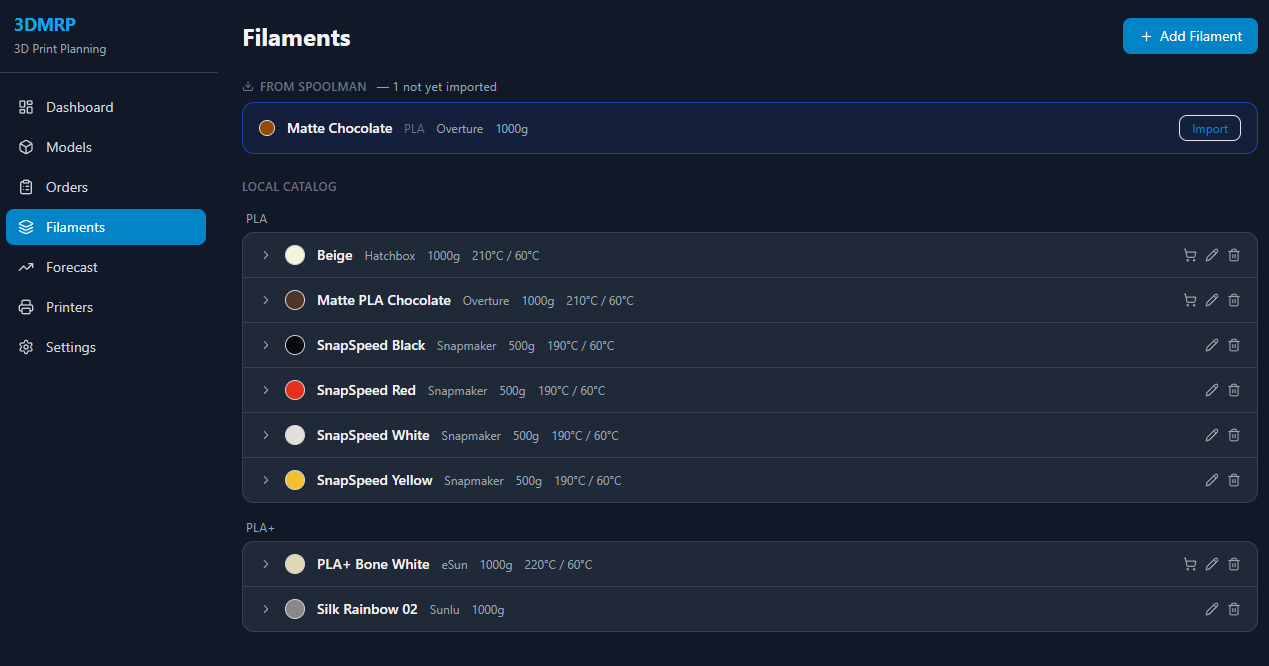
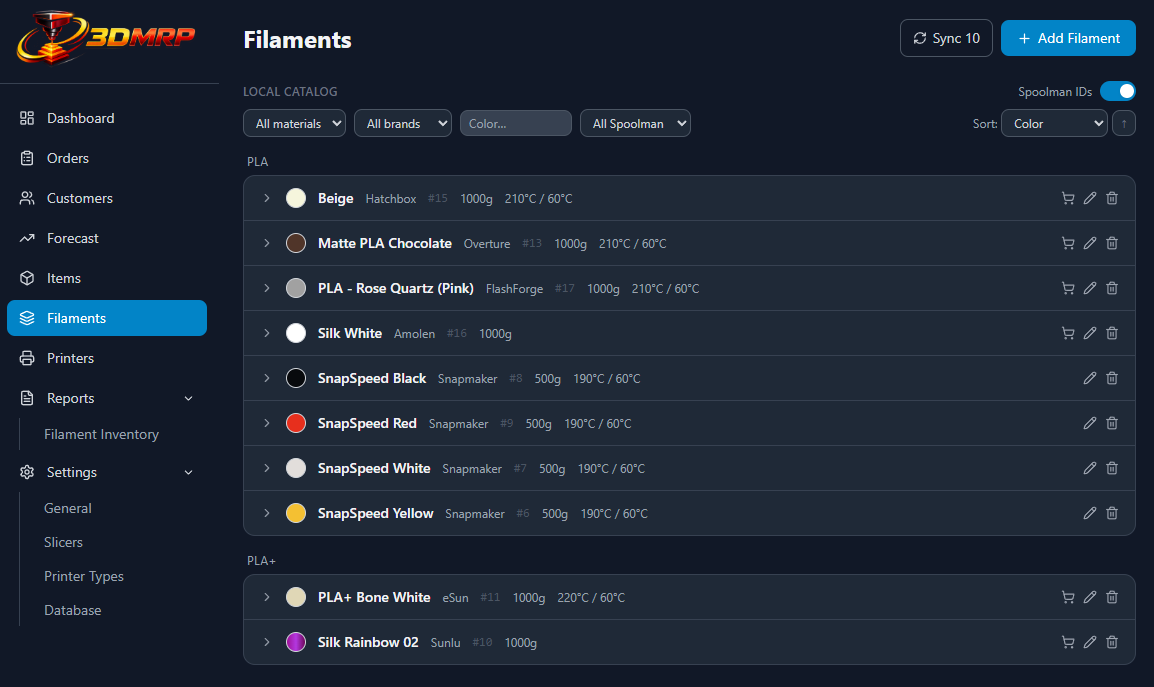
Update screenshots and reorganize README with inline section images
Replace old models.png; add items, orders, customers, forecast, settings,
and filament-inventory screenshots. Move all screenshots into their
corresponding feature sections instead of a block at the top.

diff --git a/README.md b/README.md
@@ -4,100 +4,141 @@
 
 A self-hosted web app for managing 3D print items, filament inventory, orders, and print queues. Built for multi-printer workshops that want a single place to track what gets printed, with what filament, and for whom.
 
-## Screenshots
-
-### Dashboard
-![Dashboard](docs/screenshots/dashboard.png)
-
-### Items
-![Items](docs/screenshots/models.png)
-
-### Printers
-![Printers](docs/screenshots/printers.png)
-
-### Filaments
-![Filaments](docs/screenshots/filaments.png)
-
 ---
 
 ## Features
 
+### Dashboard
+
+Live overview of your shop at a glance.
+
+- Pending, printing, overdue, and stock alert counts
+- Quick-nav cards with live counts for Items, Orders, Customers, Printers, and Filaments
+- Live printer status cards with progress and temperatures — click any card to jump to that printer
+- Active orders sorted by urgency with due-date badges
+- Filament stock alerts with one-click purchase links
+
+![Dashboard](docs/screenshots/dashboard.png)
+
+---
+
 ### Items
-- Store items with name, SKU, description, notes, and multiple photos
+
+Store and manage your printable models.
+
+- Name, SKU, description, notes, and multiple photos per item
 - Upload photos or paste images directly from the clipboard
 - Click any thumbnail to open a full-size lightbox with prev/next navigation, download, crop, and delete
-- Define filament requirements per item (material, color, grams) with drag-and-drop slot ordering
+- Define filament requirements (material, color, grams) with drag-and-drop slot ordering
 - Tag items with color-coded categories and filter by tag
 - Associate a slicer project file (`.3mf`) per printer and launch the slicer directly from the browser
 
+![Items](docs/screenshots/items.png)
+
 #### Production Steps (Routing)
-- Define multi-step production workflows per item (e.g. Print → Post-process → Assembly)
+
+Define how an item gets made — step by step.
+
+- Multi-step production workflows per item (e.g. Print → Post-process → Assembly)
 - Assign a printer type and quantity-on-plate to each step
 - Each step carries its own filament requirements, auto-populated from the item's filament specs
 - Switch between simple mode (single default routing) and advanced mode (multiple named routings)
 - Rename routings inline; reorder and delete steps
 
+---
+
 ### Filaments
-- Manage a filament spec library with material, color, brand, temperature settings, and purchase URL
+
+Manage your filament library and track stock.
+
+- Store specs with material, color, brand, temperature settings, and purchase URL
 - Sync specs directly from a [Spoolman](https://github.com/Donkie/Spoolman) instance
 - Live stock levels pulled from Spoolman for forecasting
 
+![Filaments](docs/screenshots/filaments.png)
+
+---
+
 ### Printers
-- Connect to [Klipper/Moonraker](https://moonraker.readthedocs.io) printers by URL
-- Inline edit printer name and URL at any time
-- Live status display: print state, progress bar, temperatures, and ETA
-- Webcam feed via snapshot polling (works with Moonraker's camera API)
-- Browse print job history and import jobs directly as item records
+
+Connect to and monitor your Klipper/Moonraker printers.
+
+- Add printers by URL; inline-edit name and URL at any time
+- Live status: print state, progress bar, temperatures, and ETA
+- Webcam feed via snapshot polling (Moonraker camera API)
+- Browse print job history and import completed jobs directly as item records
 - Thumbnail preview shown during import
-- Filament slot tracking with RFID auto-sync (reads `filament_detect` from Moonraker and matches to your filament library by material type and color)
-- Assign a **Printer Type** to each printer and optionally override its slot count
+- Filament slot tracking with RFID auto-sync — reads `filament_detect` from Moonraker and matches slots to your filament library by material and color
+- Assign a **Printer Type** to each printer with optional slot count override
 
-### Printer Types
-- Define reusable printer categories (e.g. "Bambu X1C", "Prusa MK4") with a default slot count
-- Assign a slicer to each type so every printer of that type automatically uses the right software
-- Manage types from **Settings → Printer Types**
+![Printers](docs/screenshots/printers.png)
 
-### Slicers
-- Maintain a library of slicer software entries, each with a name and executable path
-- Link slicers to printer types for automatic slicer association
-- Manage slicers from **Settings → Slicers**
-
-### Customers
-- Full CRM: store name, email, phone, address, notes, and category per customer
-- Import customers from [Square](https://squareup.com) via the Square API, with sync to keep records up to date
-- Link orders to customer records; order history visible per customer
+---
 
 ### Orders
-- Track print orders with customer, quantity, due date, and status (pending → printing → complete)
-- Link each order to an item so filament requirements are always visible
-- Create orders for items that don't exist yet — a placeholder item is auto-created and can be filled in later
 
-### Dashboard
-- Live overview: pending, printing, overdue, and stock alert counts
-- Quick-nav cards showing live counts for Items, Orders, Customers, Printers, and Filaments
-- Live printer status cards with progress and temperatures; click any card to jump to that printer
-- Active orders sorted by urgency with due-date badges
-- Filament stock alerts with one-click purchase links
+Track print orders from intake to delivery.
+
+- Customer, quantity, due date, and status (pending → printing → complete)
+- Link each order to an item so filament requirements are always visible
+- Create orders before an item exists — a placeholder is auto-created and can be filled in later
+
+![Orders](docs/screenshots/orders.png)
+
+---
+
+### Customers
+
+Full CRM built in.
+
+- Name, email, phone, address, notes, and category per customer
+- Import from [Square](https://squareup.com) via the Square API; sync to keep records current
+- Order history visible per customer
+
+![Customers](docs/screenshots/customers.png)
+
+---
 
 ### Forecast
+
+Predict filament demand before you run out.
+
 - Demand forecast based on recent order history
-- Shows projected filament consumption vs. Spoolman stock levels
-- Flags filaments as OK / low / critical
+- Projects filament consumption vs. Spoolman stock levels
+- Flags each filament as OK / low / critical
+
+![Forecast](docs/screenshots/forecast.png)
+
+---
 
 ### Reports
-- **Filament Inventory** — live view of all active Spoolman spools grouped by material, with color swatches, remaining weight bars, and totals; auto-refreshes every 60 seconds
+
+#### Filament Inventory
+
+Live view of all active Spoolman spools — spool count, remaining weight per filament, color swatches, and progress bars. Grouped by material. Auto-refreshes every 60 seconds.
+
+![Filament Inventory](docs/screenshots/filament-inventory.png)
+
+---
 
 ### Settings
-Settings are organized into focused sub-pages accessible from a landing page:
 
-- **General** — light/dark theme; Spoolman URL with live connection test; Square Personal Access Token; preferred Amazon store domain for purchase link auto-fill
-- **Slicers** — add, edit, and remove slicer software entries
+Settings are split into focused sub-pages accessible from a landing page.
+
+![Settings](docs/screenshots/settings.png)
+
+- **General** — light/dark theme; Spoolman URL with live connection test; Square Personal Access Token; preferred Amazon store for purchase link auto-fill
+- **Slicers** — add, edit, and remove slicer software entries with executable paths
 - **Printer Types** — define printer categories with default slot counts and slicer assignments
-- **Database** — download a full database backup or restore from a previous backup file
+- **Database** — download a full backup or restore from a previous backup file
+
+---
 
 ### Navigation
-- Collapsible tree navigation: **Settings** and **Reports** expand in the sidebar to show their sub-pages
-- Auto-expands to the active section when navigating directly to a sub-page
+
+The sidebar uses a collapsible tree. **Settings** and **Reports** expand in place to show their sub-pages, and auto-expand when you navigate directly to a sub-page.
+
+---
 
 ## Stack
 
@@ -109,6 +150,8 @@ Settings are organized into focused sub-pages accessible from a landing page:
 | Backend | Native (Windows), started via `start.ps1` |
 
 The frontend runs in Docker behind nginx. The backend runs natively on the host so it can launch local slicer applications (OrcaSlicer, PrusaSlicer, etc.) directly.
+
+---
 
 ## Setup
 
@@ -143,24 +186,30 @@ PORT=7891
 
 The backend reads `DATABASE_URL` and `DATA_DIR` from the environment — these are set automatically by `start.ps1`.
 
+---
+
 ## Data
 
 All data is stored in `backend/data/`:
 - `3dmrp.db` — SQLite database
 - `images/` — uploaded item and printer images
 
-Use **Settings → Database** in the UI to download a backup or restore from one.
+Use **Settings → Database** to download a backup or restore from one.
+
+---
 
 ## Slicer integration
 
-1. Go to **Settings → Slicers** and add your slicer software with its executable path (e.g. `C:\Program Files\OrcaSlicer\OrcaSlicer.exe`).
-2. Go to **Settings → Printer Types**, create a printer type, and assign the slicer to it.
+1. Go to **Settings → Slicers** and add your slicer with its executable path (e.g. `C:\Program Files\OrcaSlicer\OrcaSlicer.exe`).
+2. Go to **Settings → Printer Types**, create a type, and assign the slicer to it.
 3. On the Printers page, assign each printer to its type.
 4. On any item, set the path to its `.3mf` file for a given printer. An **Open** button will appear that launches the slicer with the file pre-loaded.
+
+---
 
 ## Spoolman integration
 
 Set the Spoolman URL in **Settings → General** (e.g. `http://192.168.1.100:7912`). Once connected:
 - Filament specs can be imported from Spoolman
-- Live spool weights are used in the forecast to calculate shortfalls
-- The **Reports → Filament Inventory** page shows a real-time view of all active spools
+- Live spool weights feed into the forecast to calculate shortfalls
+- **Reports → Filament Inventory** gives a real-time view of all active spools